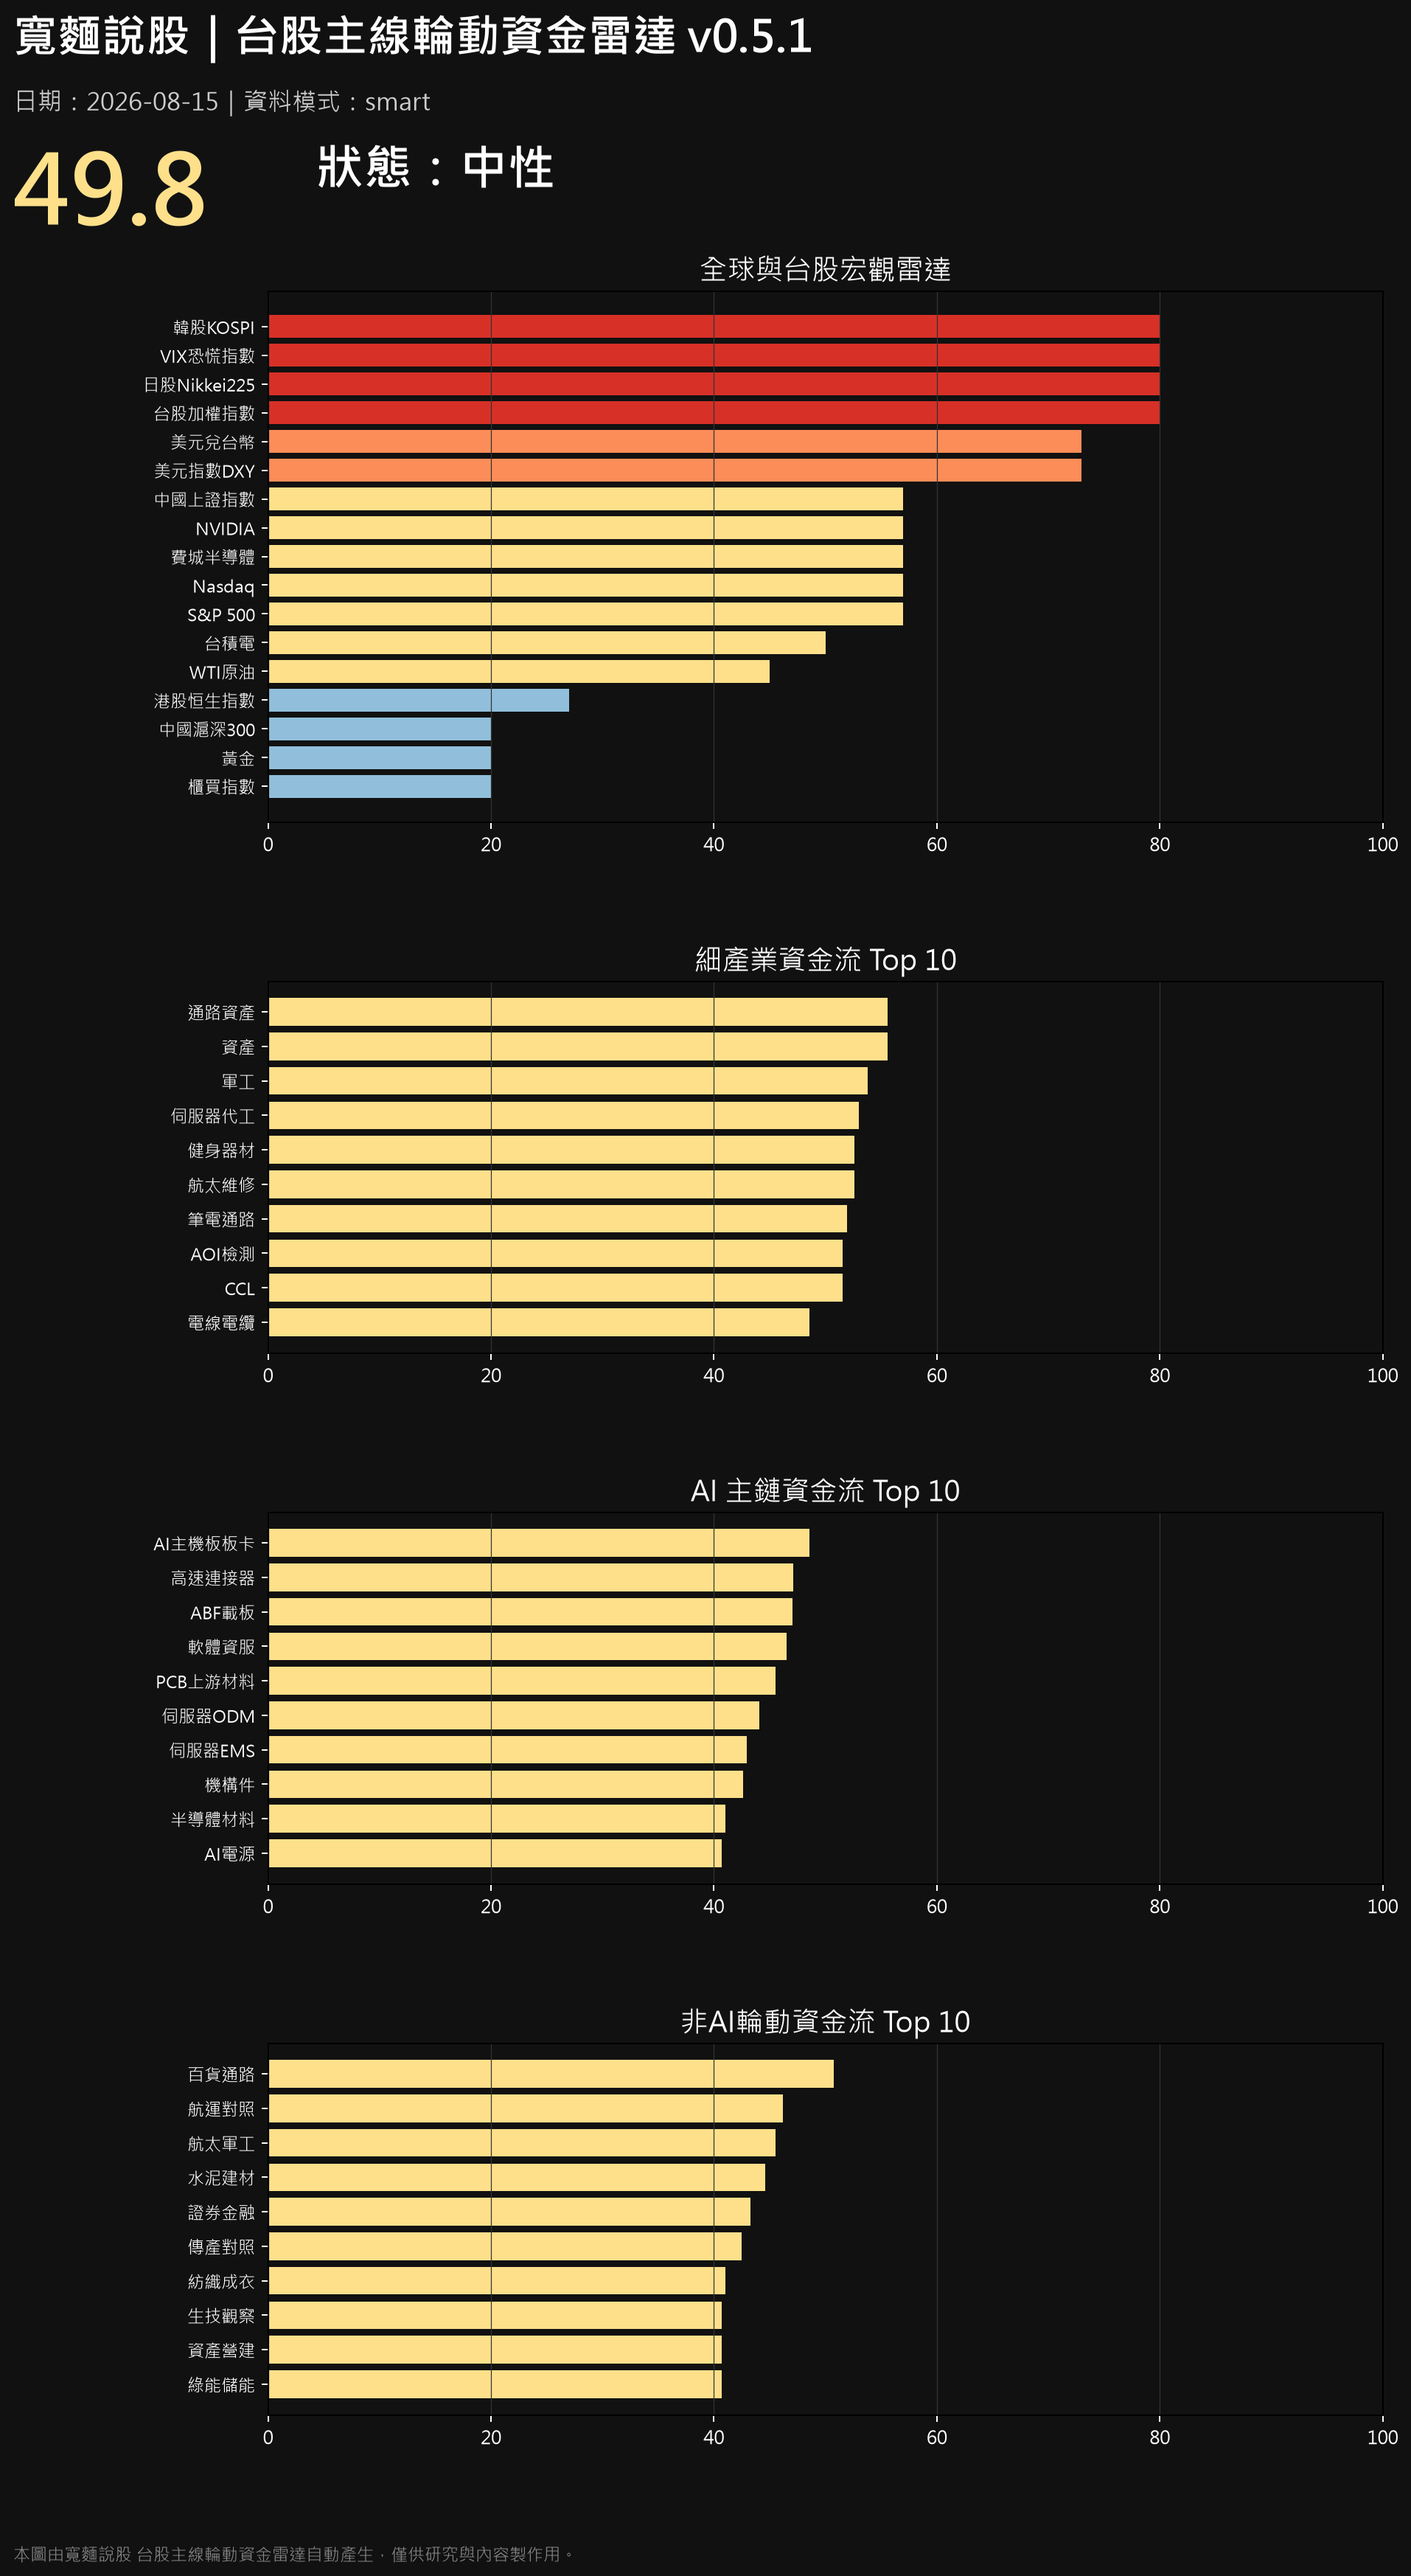
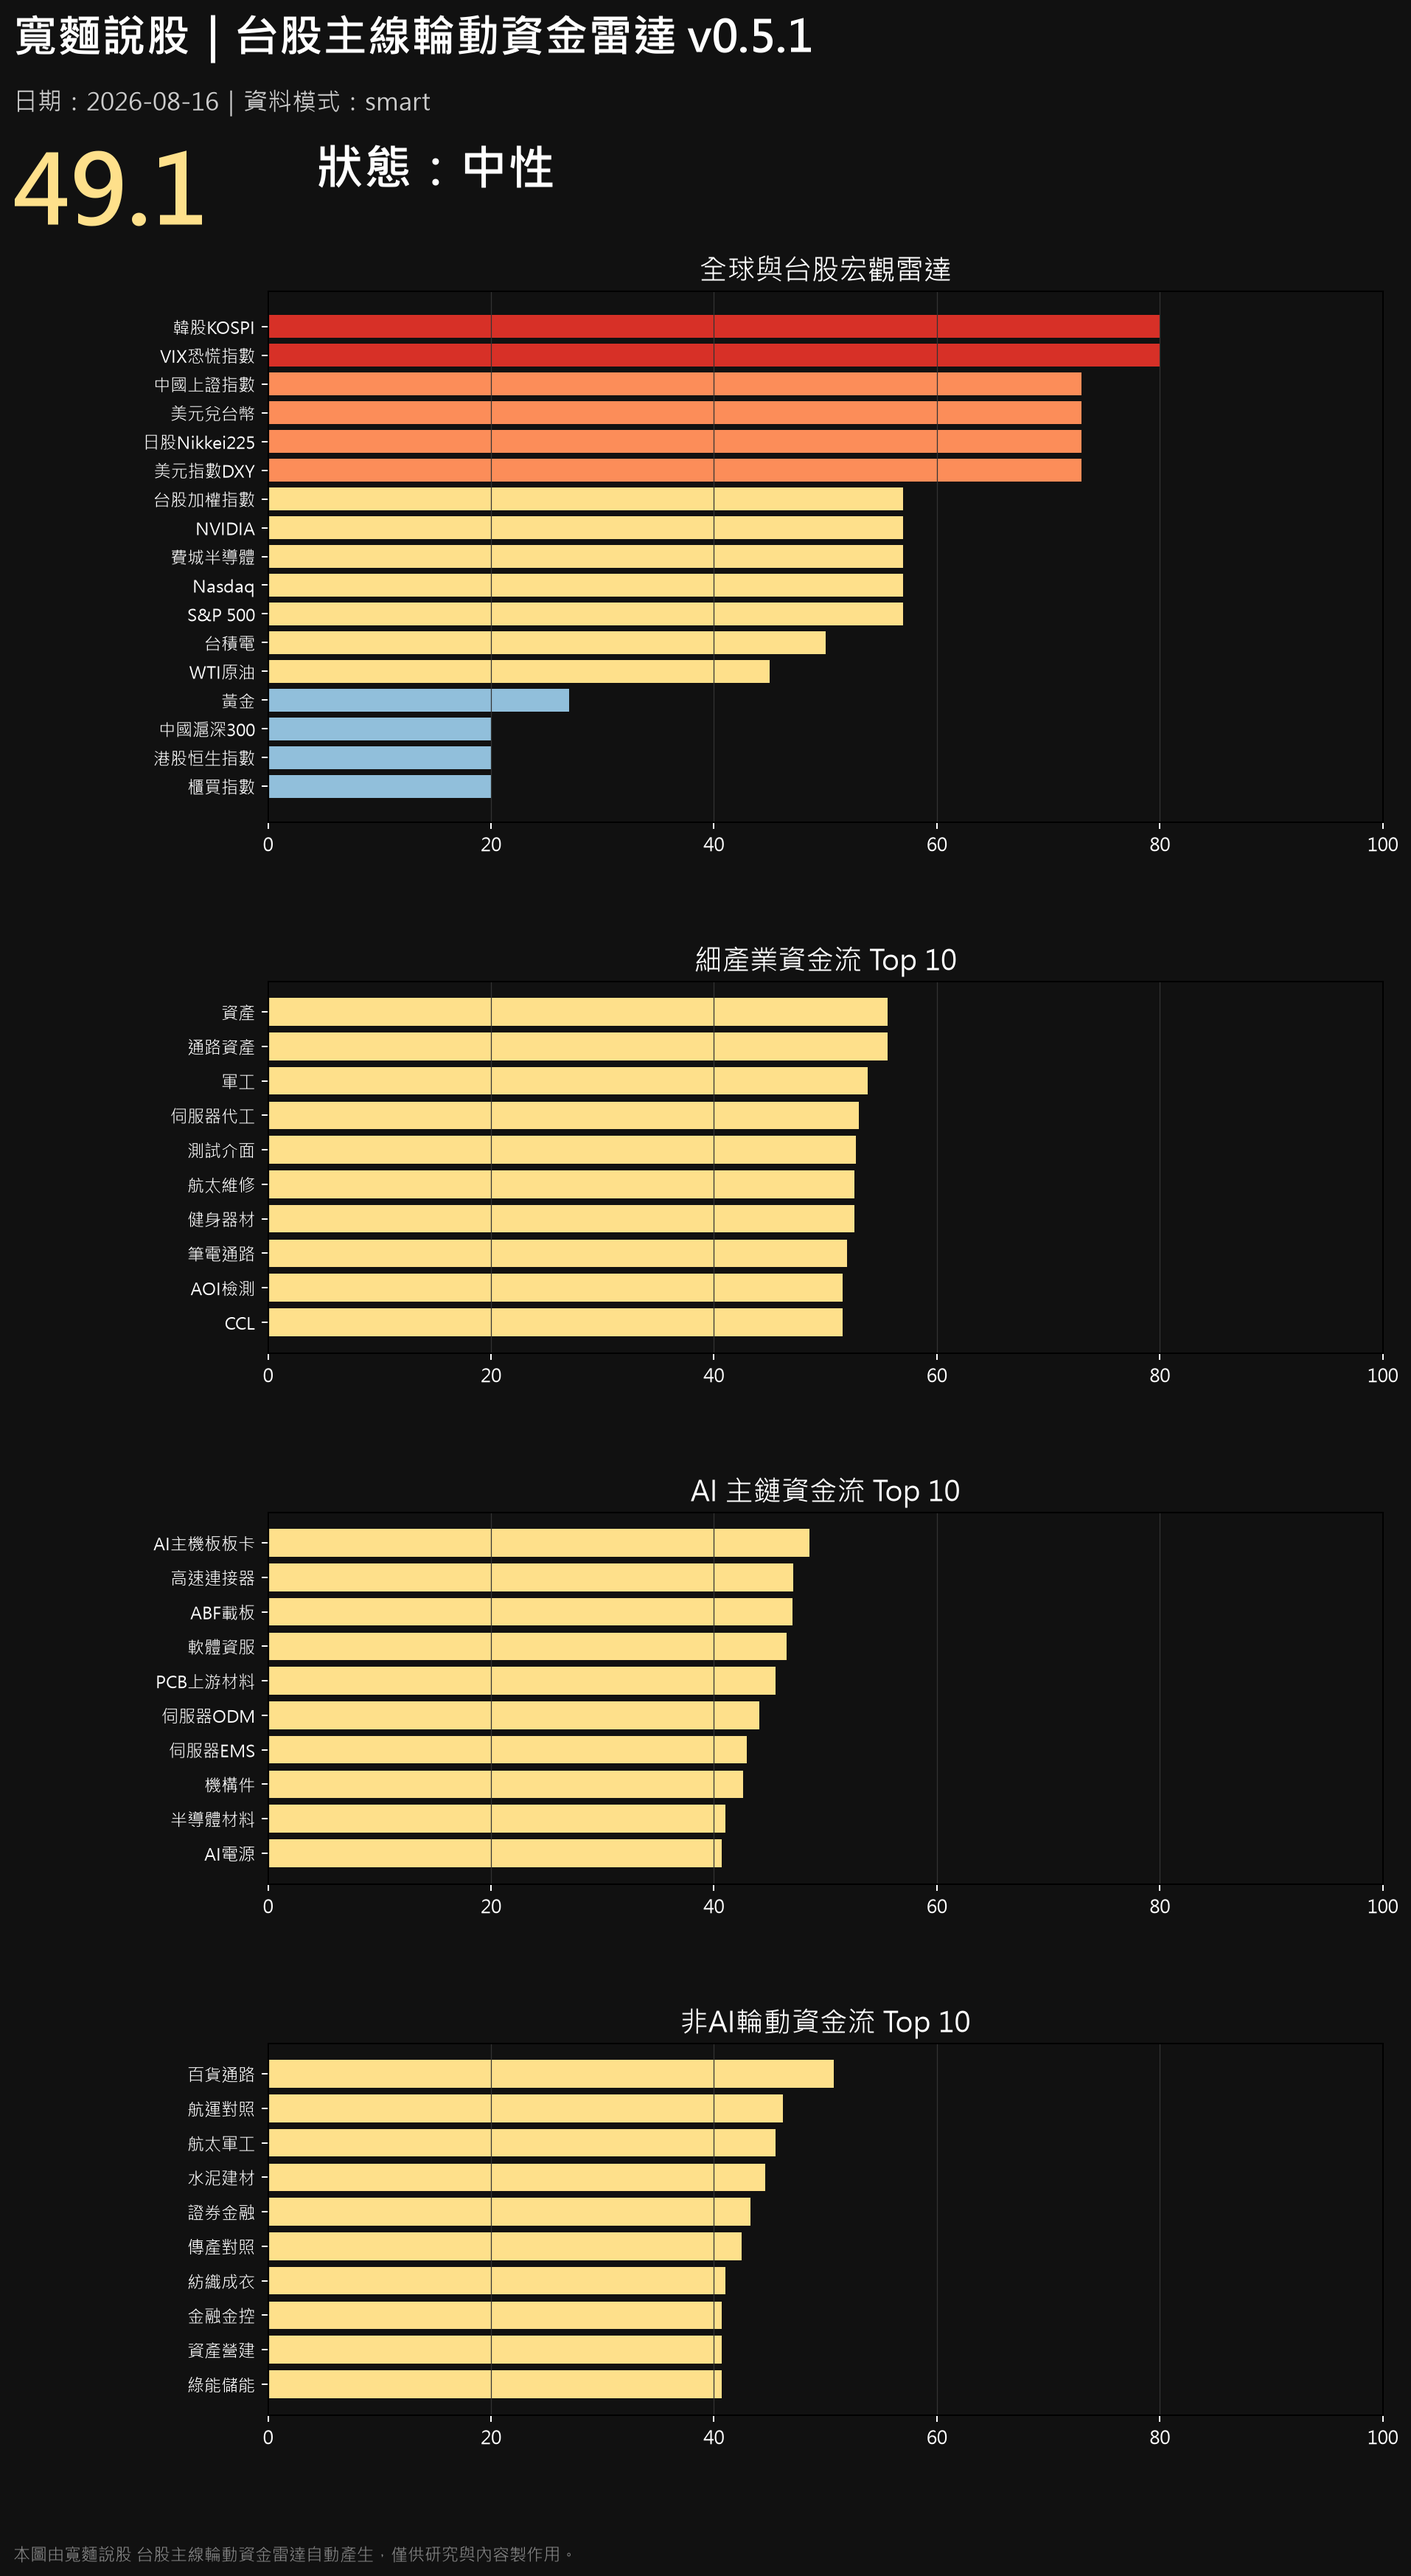
auto update radar chart 週日 2026/08/16  7:28:24.07

diff --git a/index.html b/index.html
@@ -122,7 +122,7 @@
     <section class="hero">
       <div class="brand">寬麵說股｜股海說書人</div>
       <h1>台股主線輪動資金雷達</h1>
-      <div class="updated">最後更新：2026-08-15 07:28:13</div>
+      <div class="updated">最後更新：2026-08-16 07:28:23</div>
       <div class="notice">
         每日追蹤 AI 主鏈、非AI輪動、宏觀風險與族群資金流。<br>
         本圖卡僅供研究與內容製作用，非投資建議。
@@ -130,11 +130,11 @@
     </section>
 
     <section class="dashboard-wrap">
-      <img class="dashboard" src="dashboard.png?v=20260815" alt="寬麵說股 台股主線輪動資金雷達">
+      <img class="dashboard" src="dashboard.png?v=20260816" alt="寬麵說股 台股主線輪動資金雷達">
     </section>
 
     <div class="actions">
-      <a class="btn" href="dashboard.png?v=20260815" target="_blank">開啟原圖</a>
+      <a class="btn" href="dashboard.png?v=20260816" target="_blank">開啟原圖</a>
     </div>
 
     <div class="footer">
